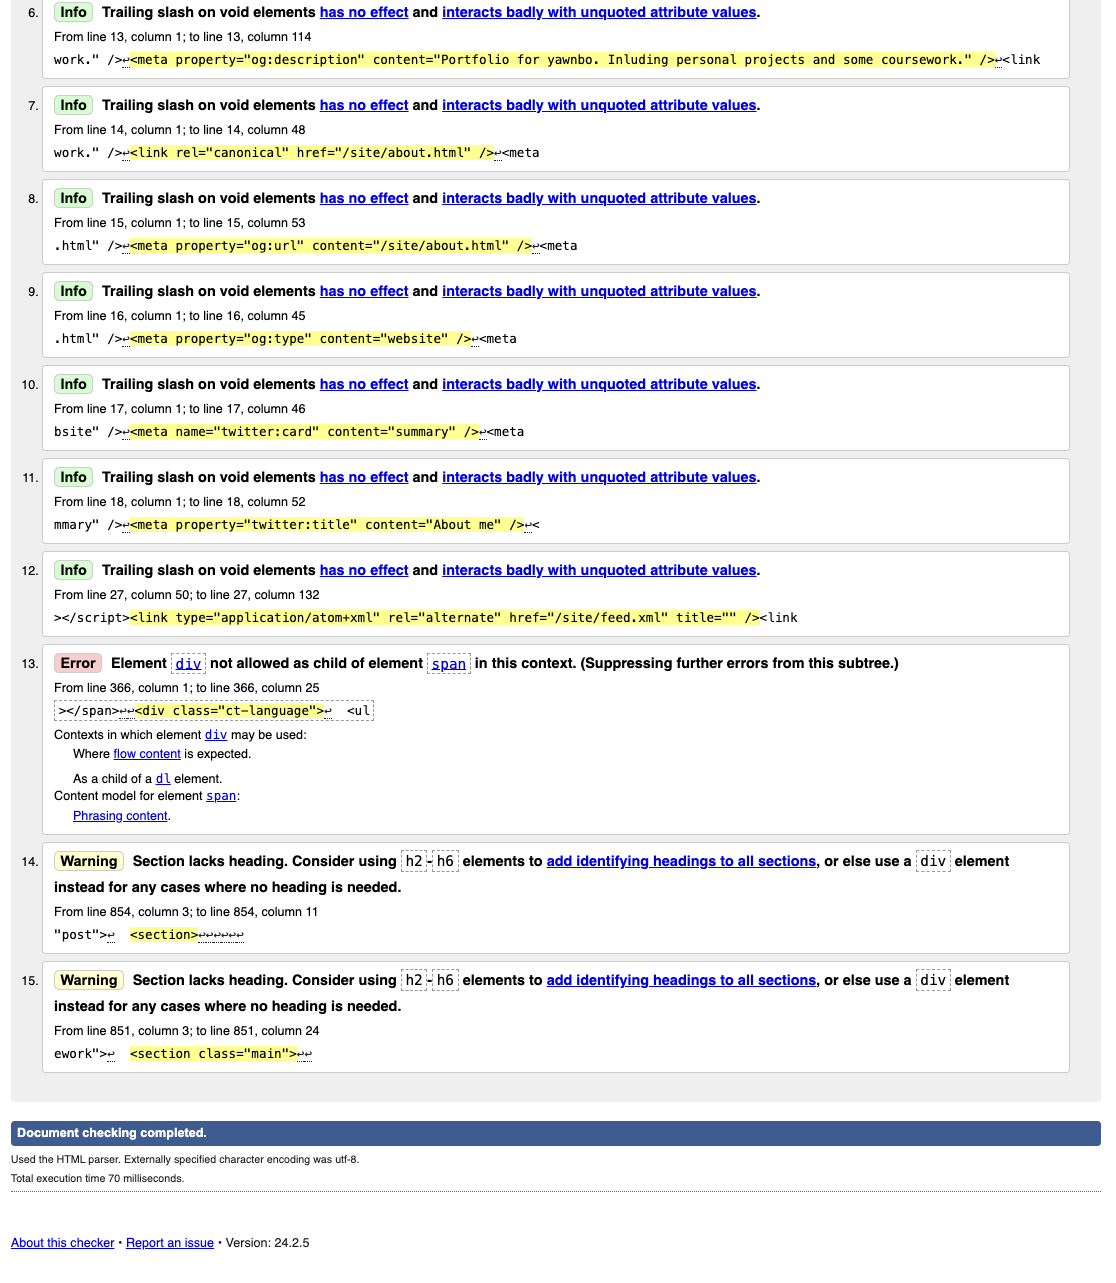
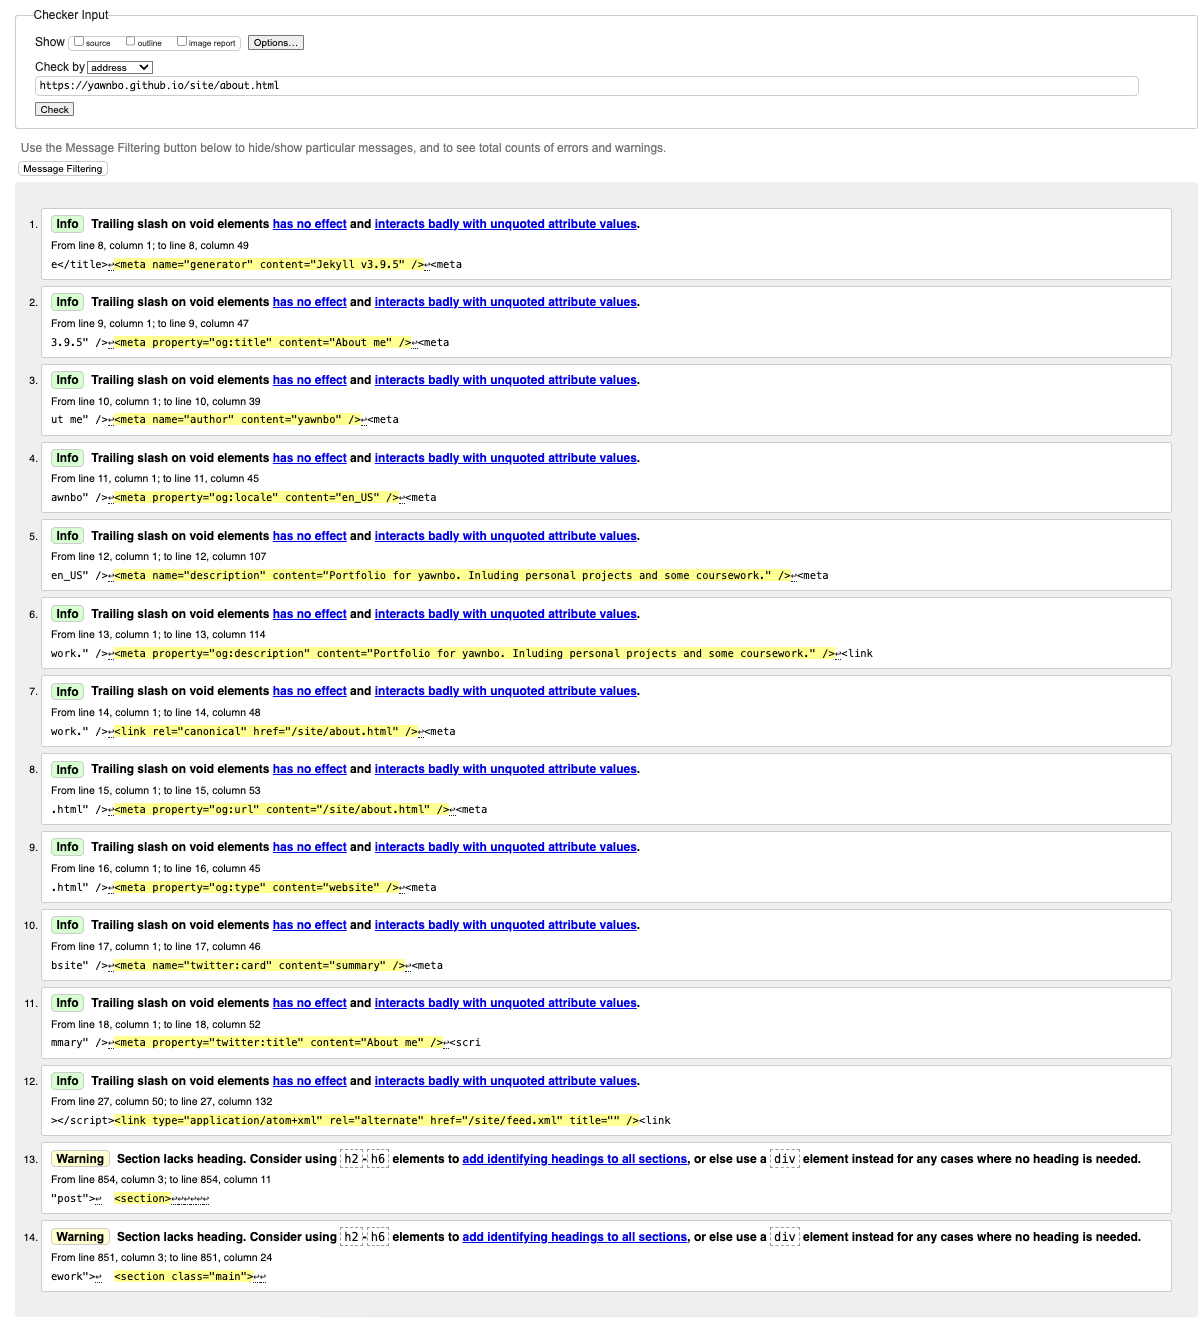
Validations

Changed region(s): [[0.0, 0.0, 1.0, 0.9977]]

diff --git a/_sass/yat/_dark.scss b/_sass/yat/_dark.scss
@@ -54,6 +54,7 @@ html[data-theme="dark"]  {
       .site-brand-inner {
         &, &:visited {
           color: #f8f8f8;
+          transition: color 0.1s;
         }
       }
     }

diff --git a/_posts/2024-2-3-Validation.md b/_posts/2024-2-3-Validation.md
@@ -32,34 +32,46 @@ sidebar: []
 </style>
 <h2>Validation</h2>
 <p>
-    This website is really weird when dealing with validation, alot of the errors output are just info errors that are caused by how liquid and ruby handle the provided html, (liquid likes to close everything with a /> so that makes up ~15 errors) and others are really weird to fix because I have no clue how to. For example...
-<p>
-
-  <img src="/assets/images/validation/unclosed_span.png" alt="Unclosed span element" height="400">
-
-<p>
-  This code shows up with the error "Element div not allowed as child of element span in this context. (Suppressing further errors from this subtree.)" The problem is that I can't change chage the div to a span without the list breaking, and I can't change the outer span that contains the above code because it is in a label element itself. If you have a suggestion I will gladly implement it.
-</p>
+    This website is really weird when dealing with validation, alot of the errors output are just info errors that are caused by how liquid and ruby handle the provided html, (liquid likes to close everything with a /> so that makes up ~15 errors)
 
 <h4>
-  Note I have no way to fix how liquid handles html so "info" errors will be shown on all pages, along with the above mentioned div element, pictures will include anything below these.
+  Note I have no way to fix how liquid handles html so "info" errors will be shown on all pages.
 </h4>
 
 <div class="container">
     <div class="column">
         <h2>Column 1</h2>
-        <h3>Home validation</h3>
+        <h3>Home</h3>
 
         <img src="/assets/images/validation/home.png" alt="home validation" height="400">
 
         <h3>About me validation</h3>
 
         <p>
-        This one has the errors "Section lacks heading. Consider using h2-h6 elements" because the website loads the page with a "post" framework and I think it want's headers 
+        All ones past this include errors that say they require headings, even though if you look into the code, they all clearly have headings. Could maybe be due to html validator running through liquid before html loading? Im not sure
         </p>
 
-        <img src="/assets/images/validation/about.png" alt="about me validation" height="400">
+        <img src="/assets/images/validation/about.png" alt="about me html" height="400">
 
+        <h3>Artifact</h3>
+
+        <img src="/assets/images/validation/artifacts.png" alt="artifacts html" height="400">
+
+        <h3>Contact Me</h3>
+
+        <img src="/assets/images/validation/contact.png" alt="contact html" height="400">
+
+        <h3>Coursework</h3>
+
+        <img src="/assets/images/validation/coursework.png" alt="coursework html" height="400">
+
+        <h3>Creative Page</h3>
+
+        <img src="/assets/images/validation/creative_page.png" alt="creative html" height="400">
+
+        <h3>Modules</h3>
+
+        <img src="/assets/images/validation/modules.png" alt="modules html" height="400">
     </div>
     <div class="column">
         <h2>Column 2</h2>
